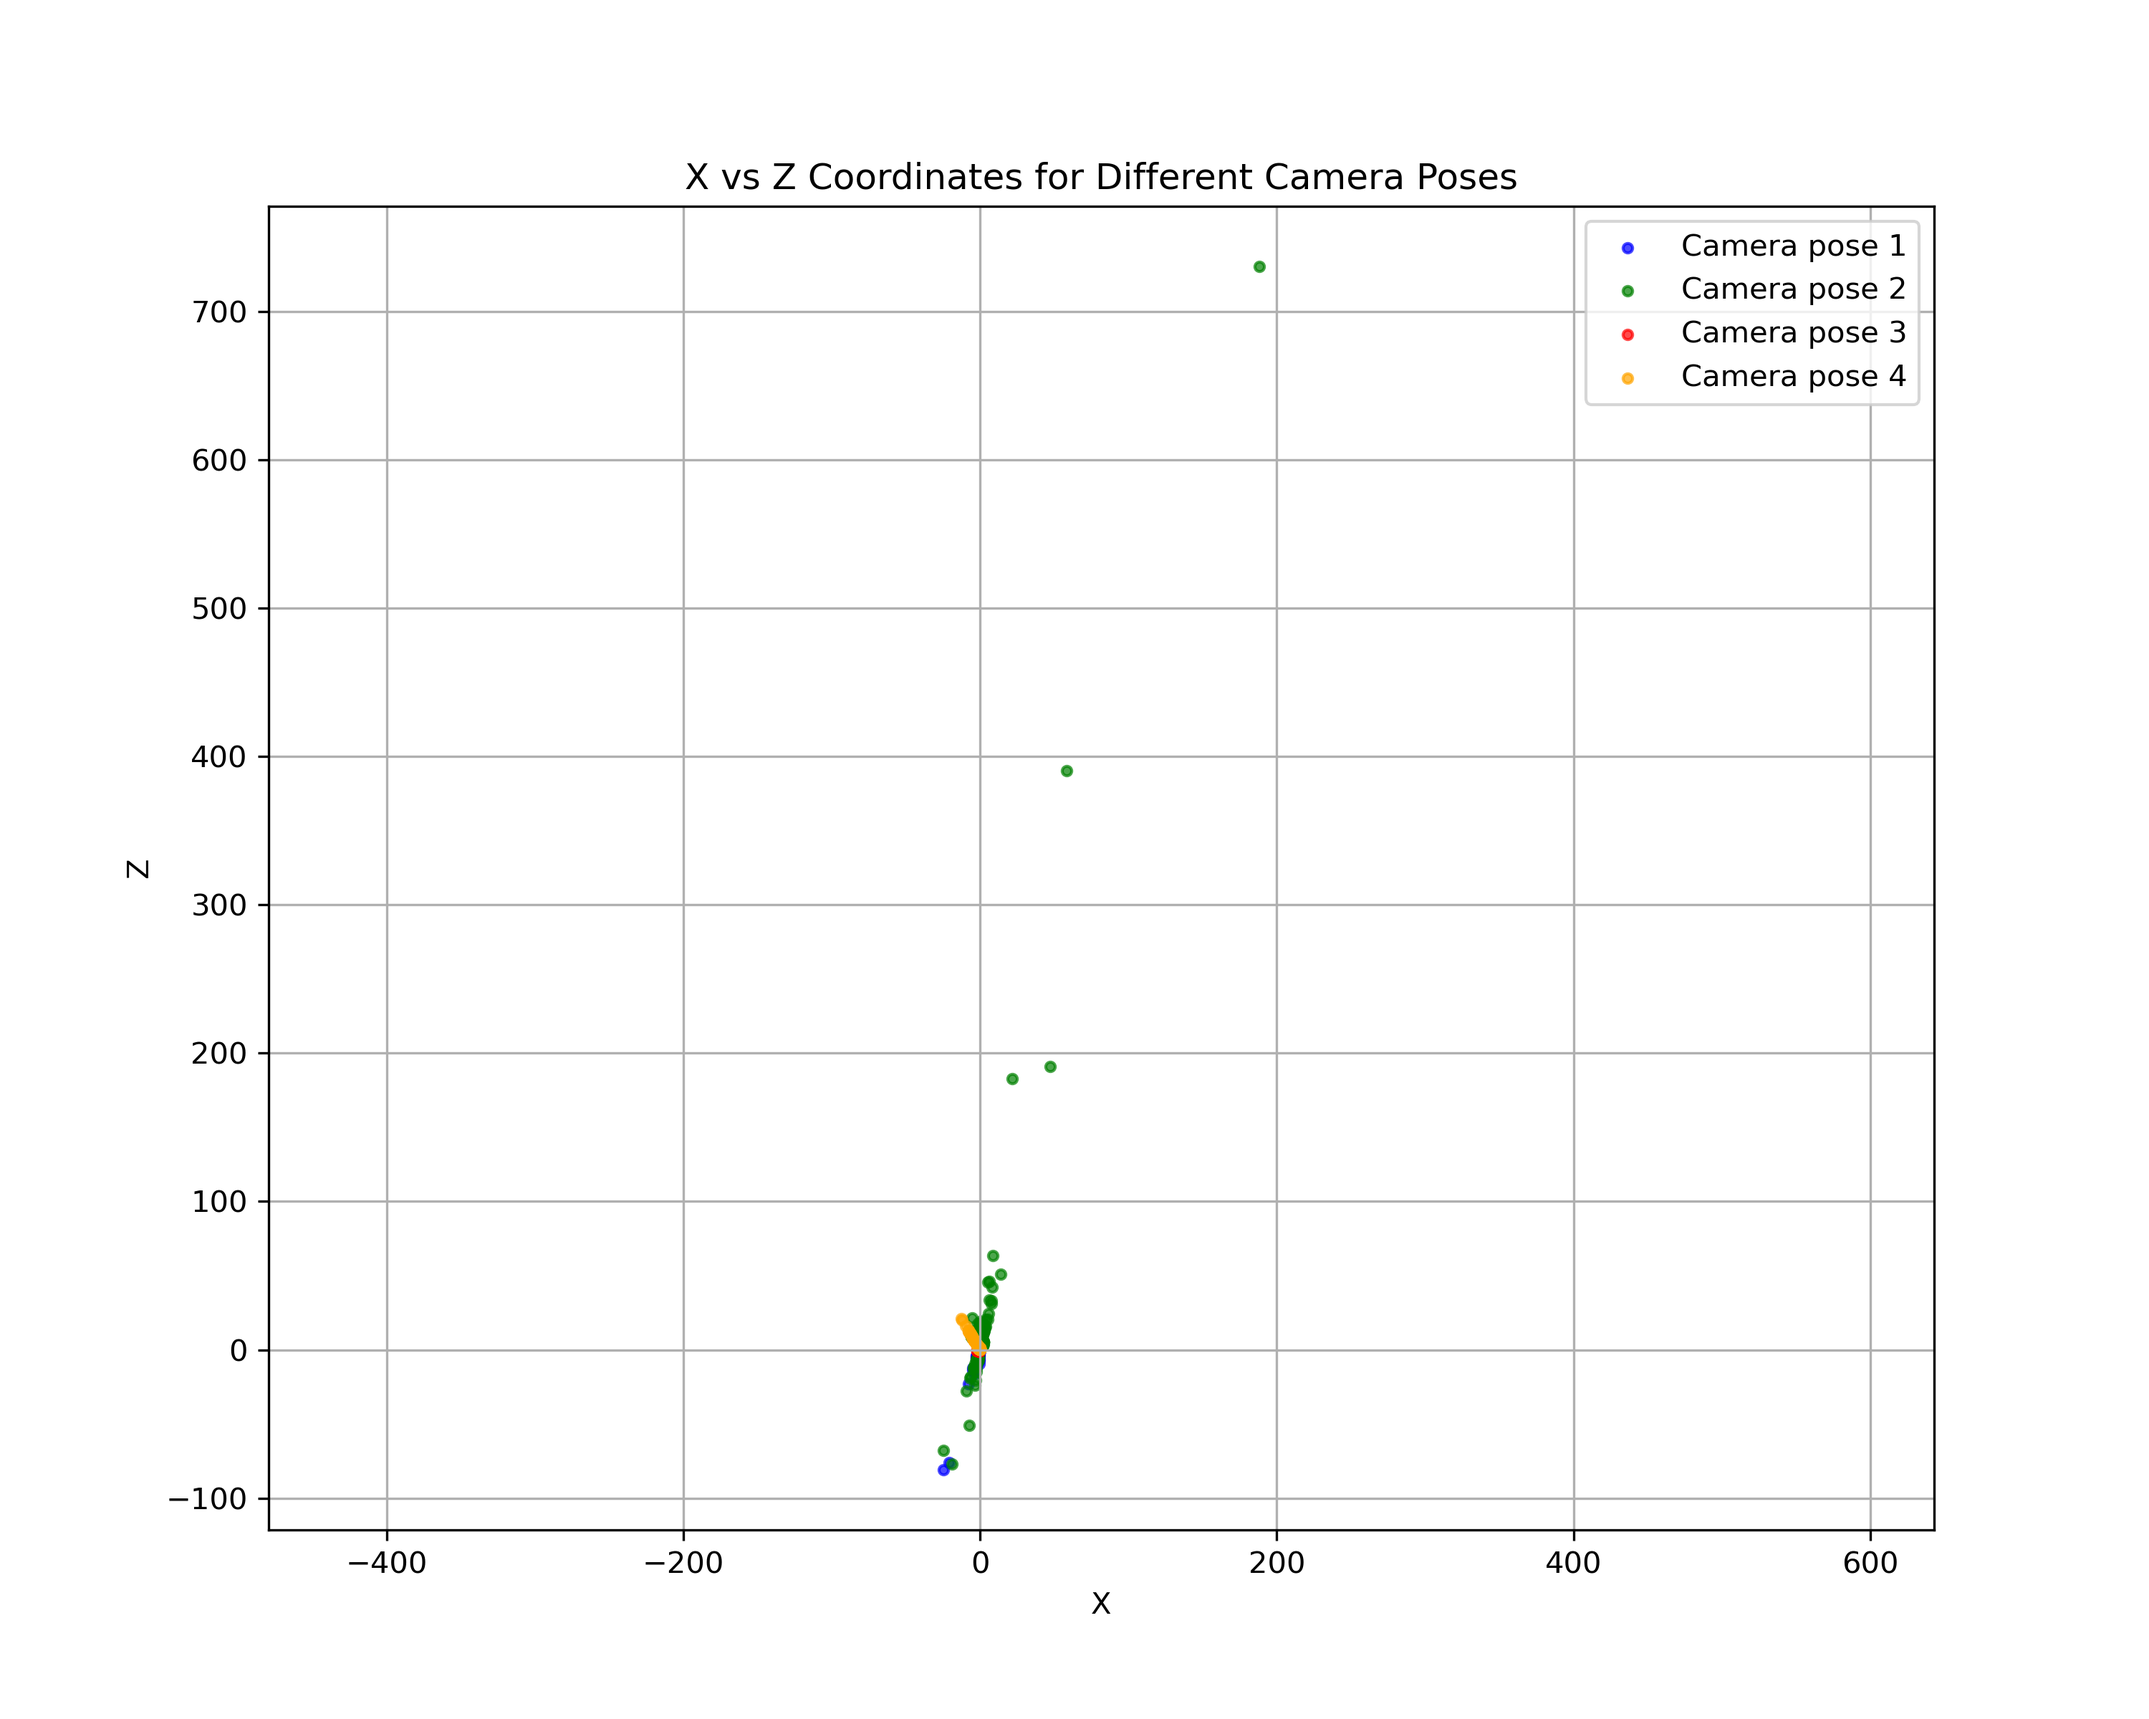
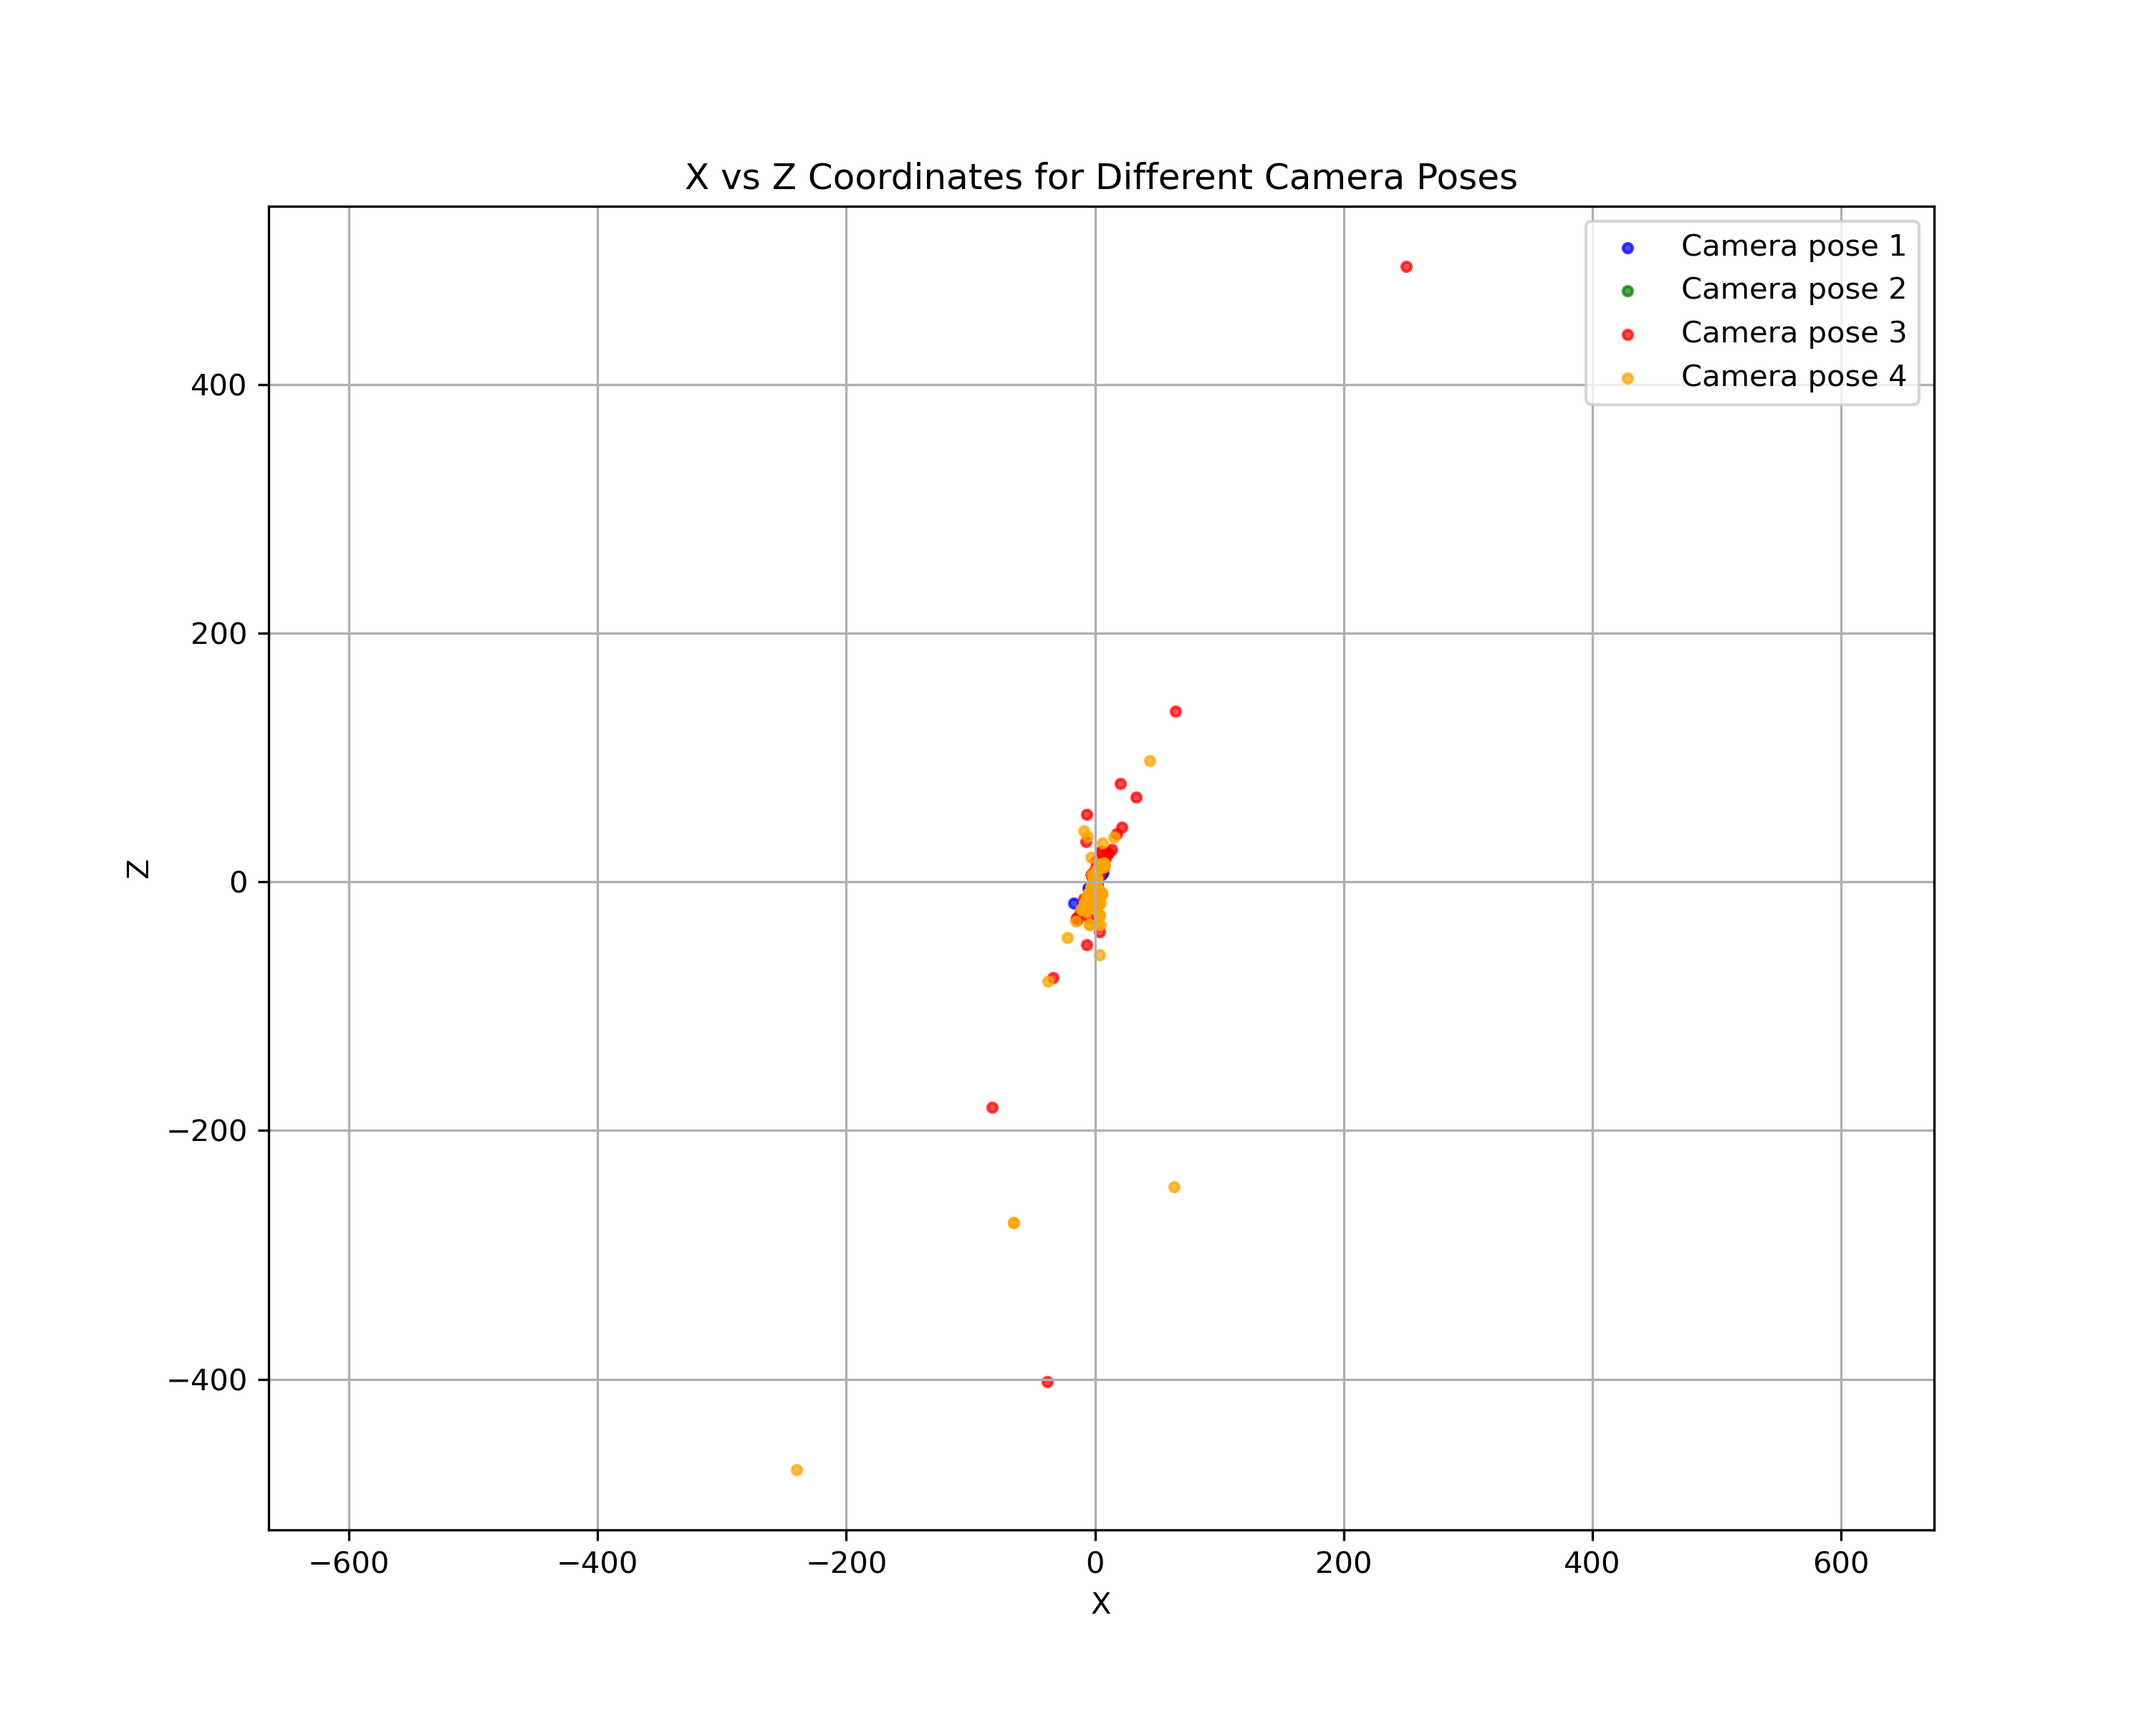
finished pipeline/fixed issues, still getting bad results

diff --git a/Phase1/Wrapper3.py b/Phase1/Wrapper3.py
@@ -3,6 +3,7 @@ import numpy as np
 import os
 import re
 import matplotlib.pyplot as plt
+import time
 
 from Utils import *
 from Fundamental import *
@@ -360,9 +361,11 @@ def visualize_reconstruction(X_all, camera_info):
                c='blue', marker='.', s=2, alpha=0.6)
 
     # Plot camera positions
-    for i, (C, R) in camera_info.items():
+    for i, info in camera_info.items():
+        C = info['C']
+        R = info['R']
         ax.scatter(C[0], C[1], C[2], color=f'C{i}', marker='s', s=100,
-                   label=f'Camera {i + 1}')
+                   label=f'Camera {i}')
 
     # Set labels and title
     ax.set_xlabel('X')
@@ -386,7 +389,6 @@ def visualize_reconstruction(X_all, camera_info):
     plt.tight_layout()
     plt.savefig('complete_reconstruction.png', dpi=300)
     plt.show()
-    
     
 
 def triangulate(K, R1, T1, im1, im2, kp1, kp2, dmatches, show=False):
@@ -429,6 +431,7 @@ def triangulate(K, R1, T1, im1, im2, kp1, kp2, dmatches, show=False):
         # Convert camera center to translation
         T2 = -np.dot(R, C.reshape(3, 1))
 
+        # print(R1, T1)
         # Triangulate points
         points_3d = triangulationlinear(K, R1, T1, R, T2, fpts1, fpts2)
         triangulated_points.append(points_3d)
@@ -575,21 +578,25 @@ def get_pose(i, obj_points, img_points, K):
         R_init, C_init, inliers_pnp = PnPRANSAC(obj_points, img_points, K)
 
         if len(inliers_pnp) < 6:
-            print(f"Not enough inliers for reliable PnP with image {i + 1}")
+            print(f"Not enough inliers for reliable PnP with image {i}")
             return None, None
 
         # Calculate reprojection error after linear PnP
         errorLinearPnP = reprojectionErrorPnP(obj_points[inliers_pnp], img_points[inliers_pnp], K, R_init, C_init)
 
         # Non-linear refinement of camera pose
-        Ri, Ci = NonlinearPnP(obj_points[inliers_pnp], img_points[inliers_pnp], K, R_init, C_init)
+        Ci, Ri = NonlinearPnP(obj_points[inliers_pnp], img_points[inliers_pnp], K, R_init, C_init)
+        # print(Ri, Ci)
         errorNonLinearPnP = reprojectionErrorPnP(obj_points[inliers_pnp], img_points[inliers_pnp], K, Ri, Ci)
         print(f"Error after linear PnP: {errorLinearPnP}, Error after non-linear PnP: {errorNonLinearPnP}")
 
         
     except Exception as e:
-        print(f"Error in PnP for image {i + 1}: {e}")
+        print(f"Error in PnP for image {i}: {e}")
+        raise e
         return None, None
+    
+    return Ci, Ri
      
 
 
@@ -674,8 +681,13 @@ def main():
         # NOTE: get_pose will filter out (RANSAC) certain object points and image points, but *we don't use that*
         # This should probably output the filtered points and we should remove the outliers, but we don't do that here 
         C, R = get_pose(i, obj_points, img_points, K)
+        if C is None or R is None:
+            print(f"  Could not estimate camera pose for image {i}. Skipping.")
+            # time.sleep(2)
+            return
         # Store camera pose
         camera_info[i] = {'R': R, 'C': C}
+        
         
 
         # Now triangulate new points between this camera and all previous cameras
@@ -695,6 +707,9 @@ def main():
             # Triangulate
             C1 = camera_info[j]['C']
             R1 = camera_info[j]['R']
+            if C1 is None or R1 is None:
+                print(f"  Could not find camera pose for image {j}. Skipping.")
+                continue
             _, _, Xnew = triangulate(K, R1, C1, img1, img2, kp1, kp2, dmatches, show=False)
             
             
@@ -713,8 +728,8 @@ def main():
         print(f'Registered Camera: {i + 1}')
         
     # Visualize the complete 3D reconstruction
-    all_world_points = fIdx_to_3D.values()
-    visualize_reconstruction(all_world_points, camera_info.items())
+    all_world_points = np.array(list(fIdx_to_3D.values()))
+    visualize_reconstruction(all_world_points, camera_info)
     
     # Create a 2D top-down view (X-Z plane)
     plt.figure(figsize=(10, 10))
@@ -725,7 +740,9 @@ def main():
         plt.scatter(all_world_points[:, 0], all_world_points[:, 2], marker='.', linewidths=0.5, color='blue')
 
     # Plot camera positions
-    for i, (C, R) in camera_info.items():
+    for i, info in camera_info.items():
+        C = info['C']
+        R = info['R']
         plt.plot(C[0], C[2], marker='o', markersize=15, linestyle='None',
                  label=f'Camera {i + 1}')
 

diff --git a/Phase1/Triangulation.py b/Phase1/Triangulation.py
@@ -390,7 +390,8 @@ def chirality_condition(triangulated_points, pose):
         if valid_points > max_valid_points:
             max_valid_points = valid_points
             best_pose_idx = i
-            print(f"Best pose: {best_pose_idx}")
+    
+    print(f"Best pose: {best_pose_idx}")
 
     # Get the best pose and points
     X_final = np.array(triangulated_points[best_pose_idx])

diff --git a/Phase1/PnP.py b/Phase1/PnP.py
@@ -157,7 +157,7 @@ def reprojectionErrorPnP(X, x, K, R, C):
 
     return total_error / len(X)
 
-def PnPRANSAC(X3d, x2d, K, num_iter=5000, threshold=3.0):
+def PnPRANSAC(X3d, x2d, K, num_iter=5000, threshold=25.0):
     N = X3d.shape[0]
 
     best_inliers = []

diff --git a/Phase1/Fundamental.py b/Phase1/Fundamental.py
@@ -148,7 +148,7 @@ def get_essential_mtx(K, F):
 
 def get_camera_pose(E):
     U, D, Vt = np.linalg.svd(E)
-    print("D", D)
+    # print("D", D)
     W = np.array([
         [0, -1, 0],
         [1, 0, 0],
